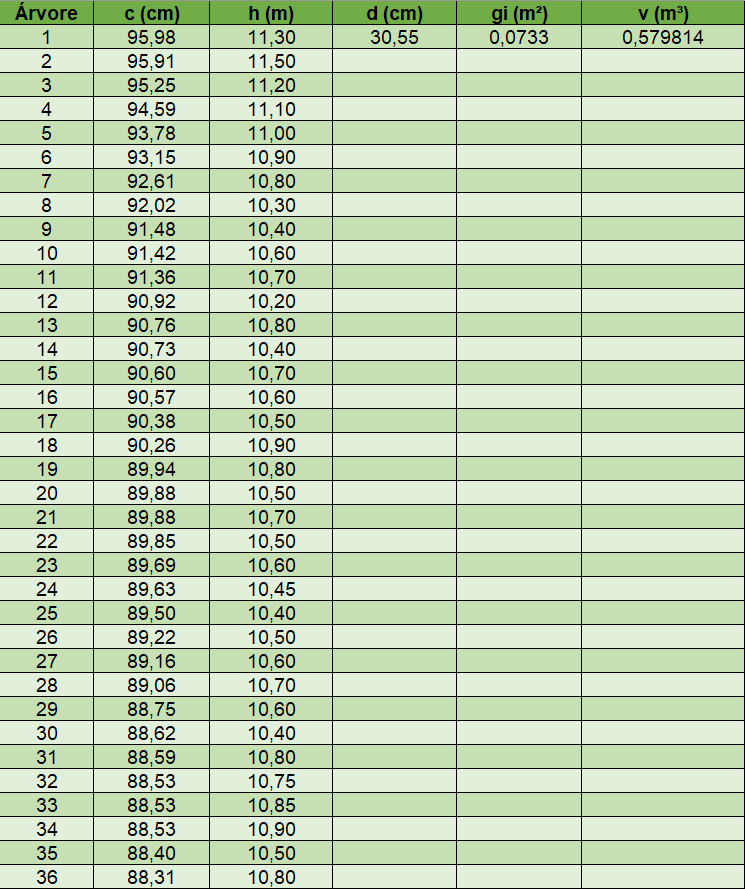
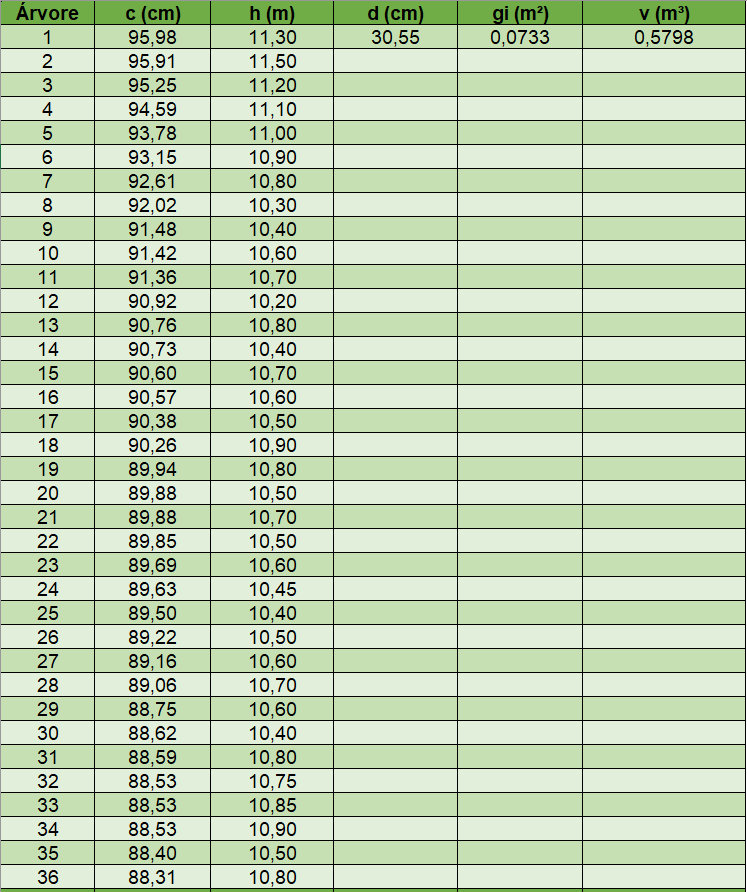
Update

Changed region(s): [[0.0, 0.0, 1.0, 1.0], [0.8336, 0.0, 0.957, 0.0607], [0.6483, 0.0, 0.7409, 0.0607]]

diff --git a/Slides/04-Métodos-Amostragem.html b/Slides/04-Métodos-Amostragem.html
@@ -86,7 +86,7 @@ top:.8em;right:1em;
 ##### Laboratório de Manejo Florestal, Tecnologias e Comunidades Amazônicas
 ##### E-mail: deivisonvs@ufpa.br
 &lt;br&gt;
-##### 1ª versão: 22/Novembro/2021 &lt;br&gt; (Atualizado em: 05/maio/2025) &lt;br&gt; Altamira, Pará
+##### 1ª versão: 22/Novembro/2021 &lt;br&gt; (Atualizado em: 06/maio/2025) &lt;br&gt; Altamira, Pará
 
 ---
 layout: true
@@ -831,17 +831,17 @@ $$
 
 ## 🌳 Métodos de Amostragem
 
-.pull-left-1[
-&lt;img src="fig/class4/calc1.png" width="100%" style="display: block; margin: auto auto auto 0;" /&gt;
+.pull-left-4[
+&lt;img src="fig/class4/calc1.png" width="80%" style="display: block; margin: auto auto auto 0;" /&gt;
 ]
 
 --
 
-.pull-right-2[
+.pull-right-4[
 .font80[
 **Fórmulas úteis:**
-.pull-left-11[
-👉 **Conversão circunferência para diâmetro:**
+
+👉 **Conversão circunferência para diâmetro (cm):**
 $$
 \normalsize
 `\begin{equation*}
@@ -853,56 +853,22 @@ $$
 $$
 \normalsize
 `\begin{equation*}
-g_i = \frac{\pi d^2}{40000}
+g_i = \frac{\pi d^2}{40000} = \frac{\pi (30,55^2)}{40000} = 0,0733~m²
 \end{equation*}`
 $$
 
-👉 **Volume da árvore em pé:**
+👉 **Volume da árvore em pé (m³):**
 
 $$
 \normalsize
 `\begin{equation*}
-v_i = g_i.h.0,7
+v_i = g_i.h.0,7 = 0,0733.(11,30).0,7 = 0,5798~m³
 \end{equation*}`
 $$
+&lt;br&gt;
 
-👉 **Fator de Proporcionalidade:**
-$$
-\normalsize
-`\begin{equation*}
-FP = \frac{A}{a}
-\end{equation*}`
-$$
+.center[.blue[**Faça os cálculos para as demais árvores!**]]
 
-]
-
-.pull-right-11[
-
-👉 **Número de árvores por hectare (árvore/ha):**
-$$
-\normalsize
-`\begin{equation*}
-N = m.FP
-\end{equation*}`
-$$
-
-👉 **Área Basal por hectare (m²/ha):**
-$$
-\normalsize
-`\begin{equation*}
-G = \sum_{i}^{m}g_i.FP
-\end{equation*}`
-$$
-
-👉 **Volume por hectare (m³/ha):**
-$$
-\normalsize
-`\begin{equation*}
-V = \sum_{i}^{m}v_i.FP
-\end{equation*}`
-$$
-
-]
 ]
 ]
 
